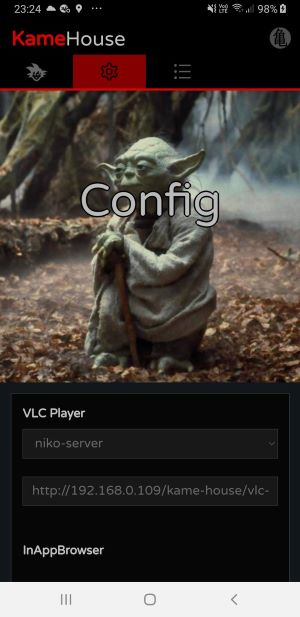
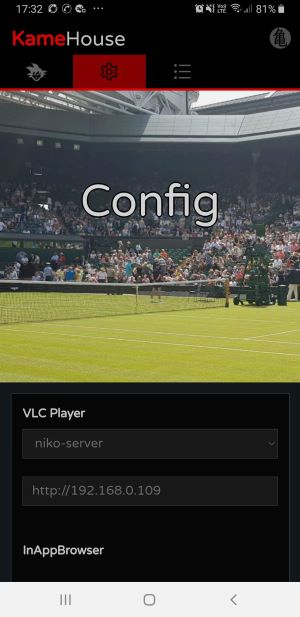
- Added git commit hash to kamehouse-cmd - Updated kh mobile server urls to only edit the hostname/ip and automatically append the rest of the url for each server - Updated mobile screenshots

diff --git a/kamehouse-mobile/www/html-snippets/tab-config.html b/kamehouse-mobile/www/html-snippets/tab-config.html
@@ -4,13 +4,13 @@
     <br>
     <select id="vlc-server-dropdown" class="form-input-kh" type="select" onchange="mobileConfigManager.setVlcPlayerFromDropdown()">
       <option value="">Select VLC Player</option>
-      <option value="http://192.168.0.109/kame-house/vlc-player">niko-server</option>
-      <option value="http://192.168.0.107/kame-house/vlc-player">niko-server-vm-ubuntu</option>
-      <option value="http://192.168.0.100/kame-house/vlc-player">niko-w</option>
-      <option value="http://192.168.0.101/kame-house/vlc-player">niko-w-vm-ubuntu</option>
-      <option value="http://192.168.43.171/kame-house/vlc-player">niko-w-hotspot</option>
-      <option value="http://192.168.0.99/kame-house/vlc-player">niko-nba</option>
-      <option value="http://192.168.0.129:9090/kame-house/vlc-player">pi</option>
+      <option value="http://192.168.0.109">niko-server</option>
+      <option value="http://192.168.0.107">niko-server-vm-ubuntu</option>
+      <option value="http://192.168.0.100">niko-w</option>
+      <option value="http://192.168.0.101">niko-w-vm-ubuntu</option>
+      <option value="http://192.168.43.171">niko-w-hotspot</option>
+      <option value="http://192.168.0.99">niko-nba</option>
+      <option value="http://192.168.0.129">pi</option>
     </select>
     <br>
     <input id="vlc-server-input" class="form-input-kh" type="text" name="text" oninput="mobileConfigManager.updateMobileConfigFromView()">

diff --git a/kamehouse-mobile/www/js/global.js b/kamehouse-mobile/www/js/global.js
@@ -66,8 +66,35 @@ function CordovaManager() {
    * Open inAppBrowser with
    */
   function openBrowser(urlLookup) {
-    const serverEntity = mobileConfigManager.getServers().find(server => server.name === urlLookup);
+    const serverEntity = getServerUrl(urlLookup);
     openInAppBrowser(serverEntity);
+  }
+
+  /**
+   * Get complete url from lookup.
+   */
+  function getServerUrl(urlLookup) {
+    const server = mobileConfigManager.getServers().find(server => server.name === urlLookup);
+    const serverEntity = {};
+    serverEntity.name = server.name;
+    serverEntity.url = server.url;
+    if (urlLookup == "docker-demo") {
+      serverEntity.url = serverEntity.url + "/kame-house/";
+    }
+    if (urlLookup == "tw-booking") {
+      serverEntity.url = serverEntity.url + "/kame-house/tennisworld/booking-response.html";
+    }
+    if (urlLookup == "vlc") {
+      serverEntity.url = serverEntity.url + "/kame-house/vlc-player";
+    }
+    if (urlLookup == "vm-ubuntu") {
+      serverEntity.url = serverEntity.url + "/kame-house/";
+    }
+    if (urlLookup == "wol") {
+      serverEntity.url = serverEntity.url + "/kame-house/admin/server-management.html";
+    }
+    logger.trace("Server entity: " + JSON.stringify(serverEntity));
+    return serverEntity;
   }
 
   /**
